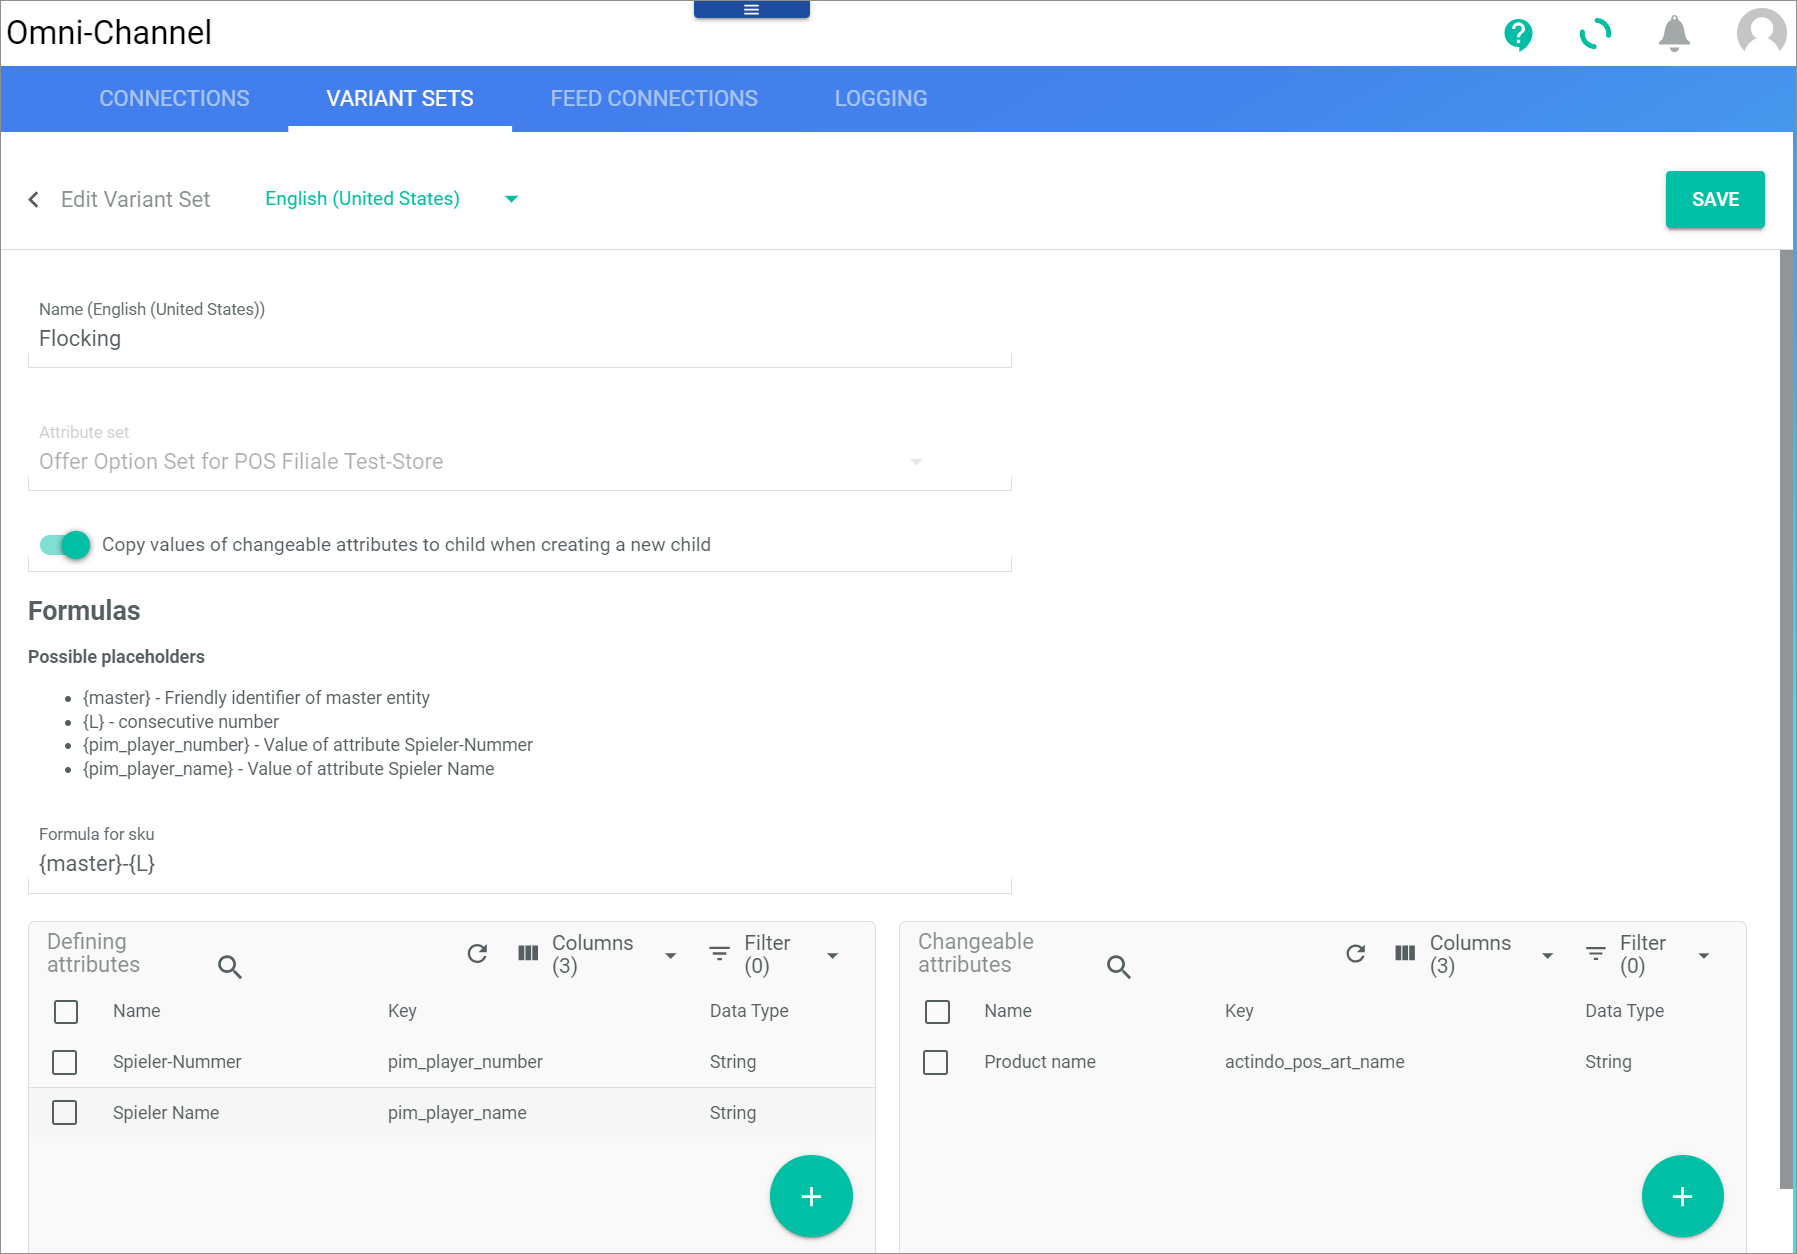
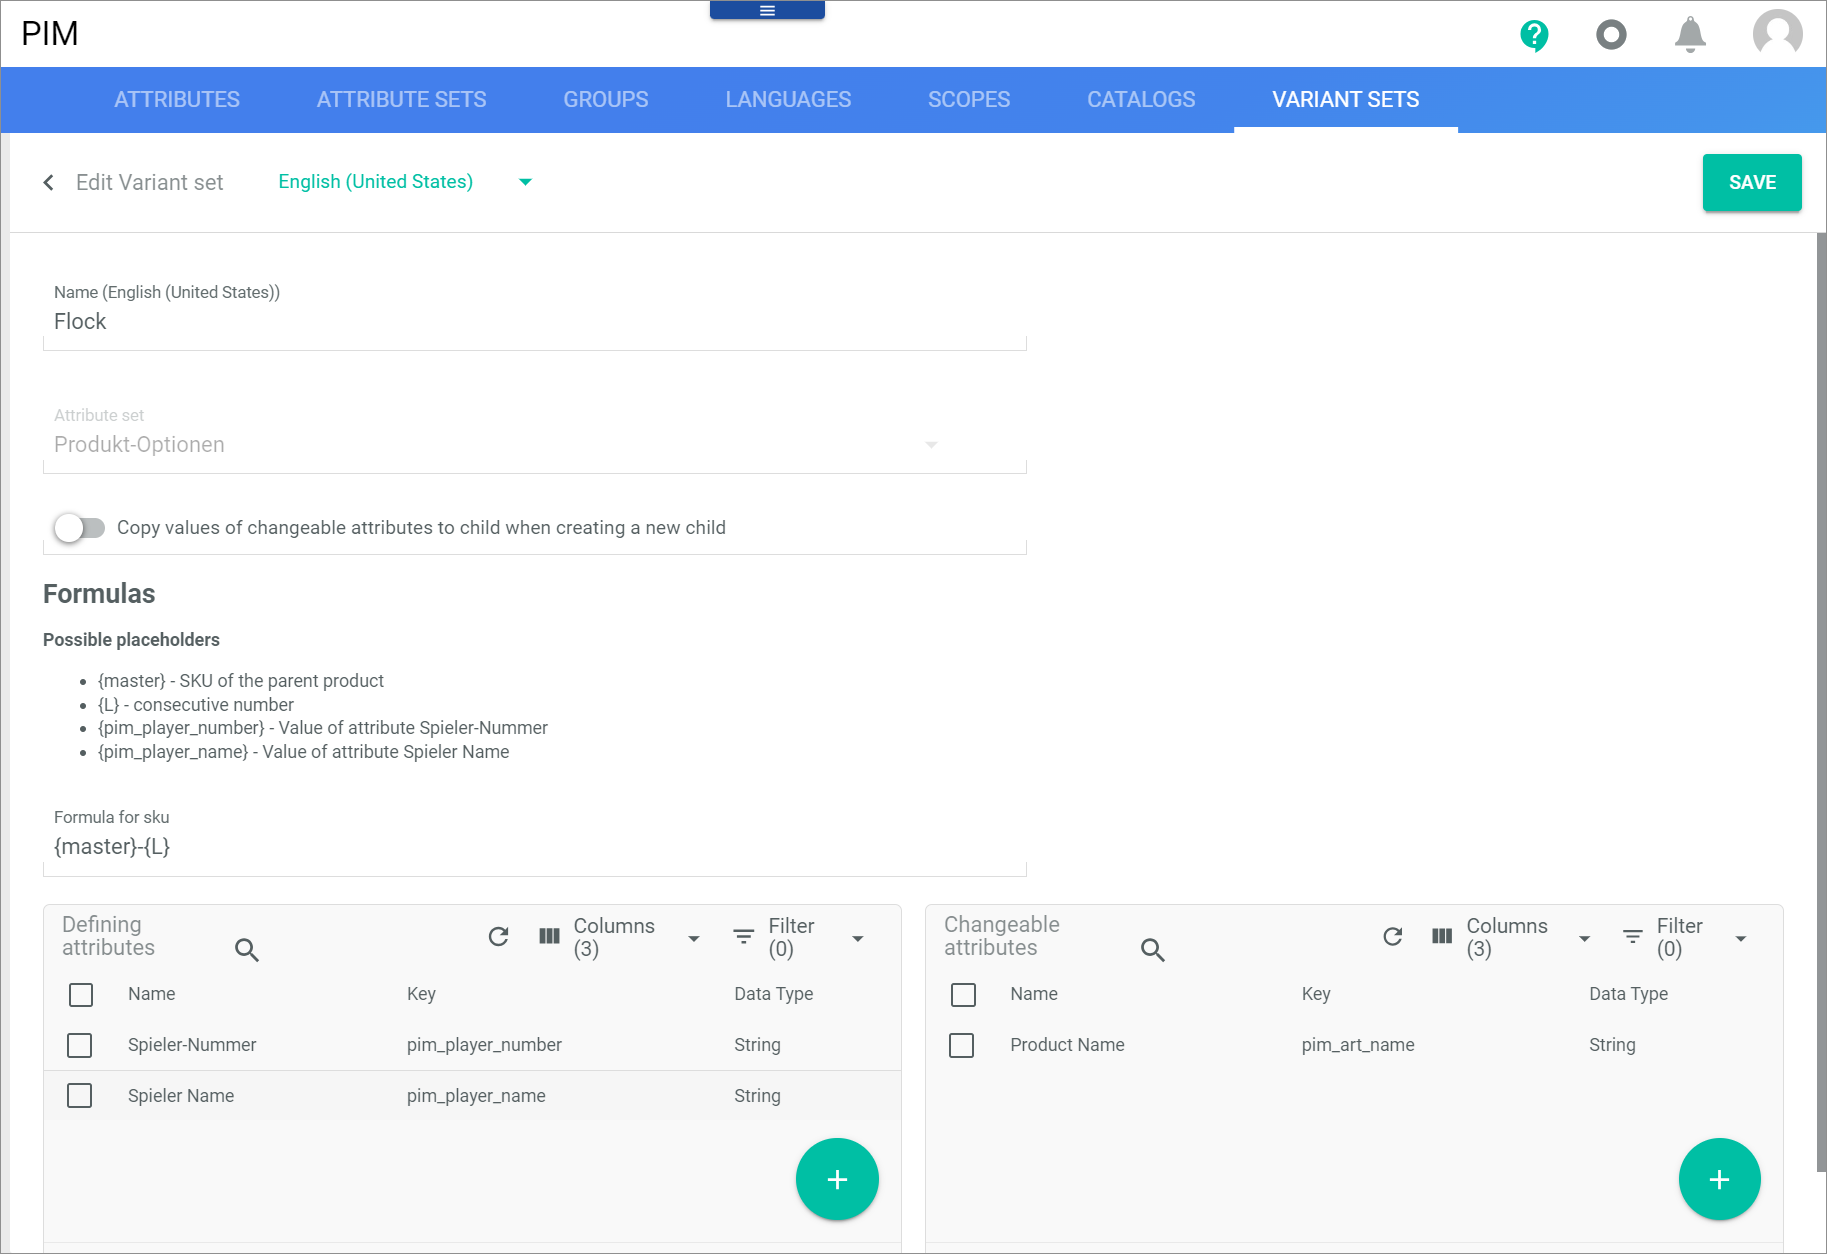
ACD-1084

diff --git a/POS/Integration/07a_ManageProductOptions.md b/POS/Integration/07a_ManageProductOptions.md
@@ -131,6 +131,7 @@ No prerequisites to fulfill.
 1. In the *PIM* module under *Settings > Attributes*, create the additional attributes you require. For detailed information, see [Create an attribute](../../PIM/Integration/01_ManageAttributes.md#create-an-attribute) in the *PIM* documentation. 
     - Use a key that starts with **pim_** to indicate that the attributes are product-related. 
     - Assign the *String* data type to the attributes.
+    - Assign the attribute to the *Product options* attribute set.
 
 2.  In the *DataHub* module under *Data model > Attribute sets*, assign the attributes to the following attribute sets:
     - *Offer option set for POS store "Name of the store"* for all stores in which you want to offer the product option.
@@ -152,24 +153,20 @@ No prerequisites to fulfill.
 
 #### Procedure
 
-1. In the *DataHub* module under *Data model > Attributes*, create the additional attributes you require. This means, create an attribute in which you can enter a text for the variant to be created. For detailed information, see [Manage an attribute](../../DataHub/Integration/01_ManageAttributes.md) in the *DataHub* documentation. 
+1. In the *PIM* module under *Settings > Tab Attributes*, create the additional attributes you require. This means, create an attribute in which you can enter a text for the variants to be created. For detailed information, see [Create an attribute](../../PIM/Integration/01_ManageAttributes.md) in the *PIM* documentation. 
     - Use a key that starts with **pim_** to indicate that the attributes are product-related. 
     - Assign the *String* data type to the attributes.
+    - Assign the attribute to the *Product options* attribute set.
 
-
-2. In the *Omni-Channel* module under *Settings > Tab Variant sets*, create a variant set with these attributes. For detailed information, see [Manage the variant sets](../../Channels/Integration/02_ManageVariantSets.md) in the *Omni-Channel* documentation.   
-
-    >[Info] This procedure shows how to create the product options for specific stores. If you want to have your product option available for all stores, create the variant set in the *PIM* module. For detailed information, see [Manage a variant set](../../PIM/Integration/07_ManageVariantSets.md#manage-a-variant-set) in the *PIM* documentation. In this case, assign the variant set the *Product options* attribute set.
-
-
-    - Assign the variant set to the *Offer option set for POS store "Name of the store"*.
+2. In the *PIM* module under *Settings > Tab Variant sets*, create a variant set with these attributes. For detailed information, see [Manage a variant set](../../PIM/Integration/07_ManageVariantSets.md) in the *PIM* documentation.   
+    - Assign the variant set to the *Product options* attribute set.
     - Assign the previously created attributes as defining attributes.
-    - Assign the *actindo_pos_art_name* (product name) attribute as changing attribute.   
+    - Assign the *pim_art_name* (Product name) attribute as changing attribute.   
     The attributes are now available for all offers that you have created for the store. They are variant defining.
 
         ![Variant sets](../../Assets/Screenshots/POS/Management/ProductOptions/Variantset.png "[Variant sets]")
 
-    > [Info] General information: The *actindo_pos_art_name* attribute is part of the *POS options basic set* attribute set.  This attribute set is available if you want to provide additional attributes for your product option products such as price fields or discount options. The attribute set is automatically inherited when you create a product option product.    
-    On the other hand, the *Product options* attribute set (pim_product_options) inherits the *POS basic set* attribute set, so you have the same attributes available for your product options products as for normal products. 
 
-3. In the *Omni-Channel* module under *Offers > Tab Offers*, create variants of your product option offer. By doing it, enter the predefined texts in the attributes of your variants. For example, enter the names of the famous athletes with their club player number. For detailed information, see  
+3. In the *PIM* module under *Products > Tab List*, create variants of your product option product. 
+
+4. Transfer the variants to the *Omni-Channel* module.

diff --git a/POS/UserInterface/02a_GlobalSettings.md b/POS/UserInterface/02a_GlobalSettings.md
@@ -406,7 +406,8 @@ Allow your cashiers to accept a return and to refund the amount due. Enable this
 
 ![Field for customer lock](../../Assets/Screenshots/POS/Management/GlobalSettings/FieldForCustomerLock.png "[Field for customer lock]")
 
-Define the field to be used to identify a customer as locked for the stores. The *Field for customer lock* setting specifies the attribute in the customer's master data from which the system should read information about whether a customer is locked. See the *customer_locked* attribute in the *RetailSuite Customer* attribute set for reference.   
+Define the field to be used to identify a customer as locked for the stores. Customers can be locked, for example, if they are banned from entering the store, or they can be banned from receiving member discounts because they have not paid their membership fees.   
+The *Field for customer lock* setting specifies the attribute in the customer's master data from which the system should read information about whether a customer is locked. See the *customer_locked* attribute in the *RetailSuite Customer* attribute set for reference.   
 
 The following prerequisites must be met to use this feature: 
  
